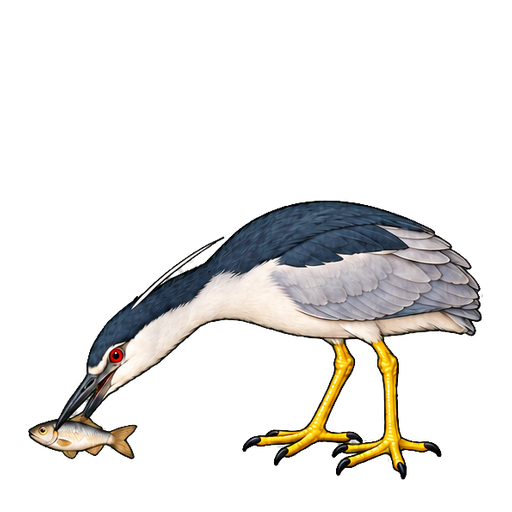
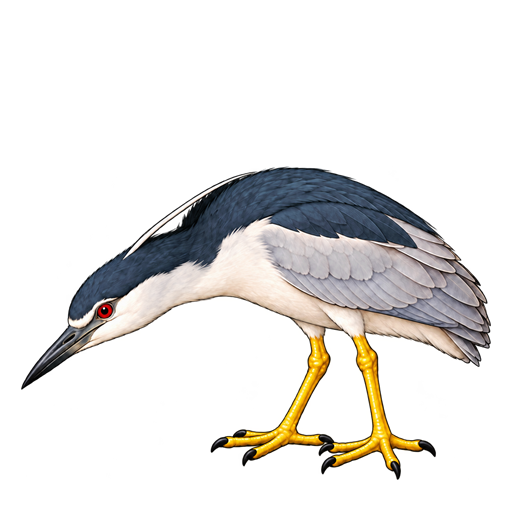
feat: extend eat animation to nine timed frames

Changed region(s): [[0.0312, 0.3125, 0.9688, 0.9375]]

diff --git a/tests/assets.test.js b/tests/assets.test.js
@@ -50,7 +50,7 @@ function loadedImageFactory(created) {
   };
 }
 
-test("loads and plays the six official eat frames once at 8 FPS", () => {
+test("loads and plays nine official eat frames once with independent timings", () => {
   const created = [];
   const fallback = { draw: () => ({ x: 0, y: 0 }) };
   const renderer = new global.YeluRenderers.HeronEatSequenceRenderer(
@@ -65,20 +65,26 @@ test("loads and plays the six official eat frames once at 8 FPS", () => {
     [{ state: "FISH_SWIM", progress: 0.5, swallowVariant: flutter }, 0],
     [{ state: "TRACK", progress: 0.5, swallowVariant: flutter }, 0],
     [{ state: "STRIKE", progress: 0, swallowVariant: flutter }, 0],
-    [{ state: "STRIKE", progress: 125 / 180, swallowVariant: flutter }, 1],
-    [{ state: "PRE_SWALLOW", progress: 70 / 280, swallowVariant: flutter }, 2],
-    [{ state: "PRE_SWALLOW", progress: 195 / 280, swallowVariant: flutter }, 3],
-    [{ state: "SWALLOW", progress: 40 / 380, swallowVariant: flutter }, 4],
-    [{ state: "SWALLOW", progress: 165 / 380, swallowVariant: flutter }, 5],
-    [{ state: "ROUNDNESS", progress: 1, swallowVariant: flutter }, 5]
+    [{ state: "STRIKE", progress: 199 / 800, swallowVariant: flutter }, 0],
+    [{ state: "STRIKE", progress: 200 / 800, swallowVariant: flutter }, 1],
+    [{ state: "STRIKE", progress: 450 / 800, swallowVariant: flutter }, 2],
+    [{ state: "STRIKE", progress: 600 / 800, swallowVariant: flutter }, 3],
+    [{ state: "STRIKE", progress: 680 / 800, swallowVariant: flutter }, 4],
+    [{ state: "PRE_SWALLOW", progress: 0, swallowVariant: flutter }, 5],
+    [{ state: "SWALLOW", progress: 0, swallowVariant: flutter }, 6],
+    [{ state: "SWALLOW", progress: 250 / 600, swallowVariant: flutter }, 7],
+    [{ state: "ROUNDNESS", progress: 0, swallowVariant: flutter }, 8],
+    [{ state: "ROUNDNESS", progress: 1, swallowVariant: flutter }, 8]
   ];
 
   assert.equal(renderer.isReady(), true);
+  assert.deepEqual(global.YeluConfig.assets.heronEat.frameDurations,
+    [200, 250, 150, 80, 120, 300, 250, 350, 250]);
   assert.deepEqual(created.map((image) => image.source), global.YeluConfig.assets.heronEat.frames);
   for (const [model, expected] of cases) assert.equal(renderer.frameIndex(model), expected);
 });
 
-test("draws every official frame into one foot-anchored destination rectangle", () => {
+test("draws all nine official frames into one foot-anchored destination rectangle", () => {
   const created = [];
   const renderer = new global.YeluRenderers.HeronEatSequenceRenderer(
     global.YeluConfig,
@@ -87,18 +93,20 @@ test("draws every official frame into one foot-anchored destination rectangle", 
   );
   const calls = [];
   const ctx = { drawImage: (...args) => calls.push(args) };
-  const models = [0, 1, 2, 3, 4, 5].map((index) => ({
-    state: "STRIKE",
-    progress: Math.min(index * 125 / global.YeluConfig.durations.STRIKE, 1),
-    swallowVariant: "flutter"
-  }));
-  models[2] = { state: "PRE_SWALLOW", progress: 70 / 280, swallowVariant: "flutter" };
-  models[3] = { state: "PRE_SWALLOW", progress: 195 / 280, swallowVariant: "flutter" };
-  models[4] = { state: "SWALLOW", progress: 40 / 380, swallowVariant: "flutter" };
-  models[5] = { state: "SWALLOW", progress: 165 / 380, swallowVariant: "flutter" };
+  const models = [
+    { state: "STRIKE", progress: 0 / 800, swallowVariant: "flutter" },
+    { state: "STRIKE", progress: 200 / 800, swallowVariant: "flutter" },
+    { state: "STRIKE", progress: 450 / 800, swallowVariant: "flutter" },
+    { state: "STRIKE", progress: 600 / 800, swallowVariant: "flutter" },
+    { state: "STRIKE", progress: 680 / 800, swallowVariant: "flutter" },
+    { state: "PRE_SWALLOW", progress: 0, swallowVariant: "flutter" },
+    { state: "SWALLOW", progress: 0, swallowVariant: "flutter" },
+    { state: "SWALLOW", progress: 250 / 600, swallowVariant: "flutter" },
+    { state: "ROUNDNESS", progress: 0, swallowVariant: "flutter" }
+  ];
   models.forEach((model) => renderer.draw(ctx, model));
 
-  assert.deepEqual(calls.map((args) => args.slice(1)), Array(6).fill(calls[0].slice(1)));
+  assert.deepEqual(calls.map((args) => args.slice(1)), Array(9).fill(calls[0].slice(1)));
   assert.deepEqual(calls.map((args) => args[0]), created);
 });
 
@@ -123,3 +131,4 @@ test("falls back to the Canvas bird when any official frame fails", () => {
   assert.equal(fallbackCalls, 1);
   assert.deepEqual(result, { x: 12, y: 34 });
 });
+

diff --git a/tests/browser-smoke.js b/tests/browser-smoke.js
@@ -14,6 +14,7 @@ const contentTypes = { ".html": "text/html", ".css": "text/css", ".js": "text/ja
 function startServer() {
   const server = http.createServer((request, response) => {
     const pathname = new URL(request.url, "http://127.0.0.1").pathname;
+    if (pathname === "/favicon.ico") { response.writeHead(204).end(); return; }
     const relative = pathname === "/" ? "index.html" : pathname.slice(1);
     const file = path.resolve(root, relative);
     if (!file.startsWith(root + path.sep)) { response.writeHead(403).end(); return; }
@@ -48,7 +49,10 @@ let browser;
   server = await startServer();
   const address = server.address();
   const baseUrl = `http://127.0.0.1:${address.port}`;
-  browser = await chromium.launch({ headless: true });
+  browser = await chromium.launch({
+    headless: true,
+    executablePath: process.env.PLAYWRIGHT_CHROMIUM_EXECUTABLE_PATH || undefined
+  });
   const context = await browser.newContext({ viewport: { width: 390, height: 844 }, deviceScaleFactor: 1 });
   const page = await context.newPage();
   const errors = collectErrors(page);
@@ -71,7 +75,7 @@ let browser;
   assert.equal(initial.hintVisible, true);
   assert.equal(initial.assetPack, "official-v1-heron-eat");
   assert.equal(initial.placeholder, false);
-  assert.deepEqual(initial.eatFrames, Array(6).fill([true, 512]));
+  assert.deepEqual(initial.eatFrames, Array(9).fill([true, 512]));
   await page.screenshot({ path: path.join(artifacts, "idle.png") });
 
   await page.click("#feed-button");
@@ -99,7 +103,7 @@ let browser;
     const model = app.machine.snapshot(performance.now());
     return { state: model.state, frame: app.assetPack.bird.frameIndex(model) };
   });
-  assert.ok(eating.frame >= 3 && eating.frame <= 5);
+  assert.ok(eating.frame >= 3 && eating.frame <= 8);
   await page.screenshot({ path: path.join(artifacts, "eat-sequence.png") });
 
   await page.waitForFunction(() => window.__YELU_M0__.machine.state === "POOP");
@@ -174,3 +178,4 @@ let browser;
   if (browser) await browser.close().catch(() => {});
   if (server) await new Promise((resolve) => server.close(resolve));
 });
+

diff --git a/js/config.js b/js/config.js
@@ -12,20 +12,23 @@
       activePack: "official-v1-heron-eat",
       interfaceVersion: 1,
       heronEat: {
-        fps: 8,
         frameWidth: 512,
         frameHeight: 512,
         displaySize: 280,
         x: 72,
         footBaselineY: 430,
         sourceFootBaseline: 480,
+        frameDurations: [200, 250, 150, 80, 120, 300, 250, 350, 250],
         frames: [
           "assets/official-v1/heron/eat/heron-eat-000.png",
           "assets/official-v1/heron/eat/heron-eat-001.png",
           "assets/official-v1/heron/eat/heron-eat-002.png",
           "assets/official-v1/heron/eat/heron-eat-003.png",
           "assets/official-v1/heron/eat/heron-eat-004.png",
-          "assets/official-v1/heron/eat/heron-eat-005.png"
+          "assets/official-v1/heron/eat/heron-eat-005.png",
+          "assets/official-v1/heron/eat/heron-eat-006.png",
+          "assets/official-v1/heron/eat/heron-eat-007.png",
+          "assets/official-v1/heron/eat/heron-eat-008.png"
         ]
       }
     },
@@ -40,11 +43,11 @@
       THROW: 420,
       FISH_SWIM: 340,
       TRACK: 220,
-      STRIKE: 180,
-      PRE_SWALLOW_DIRECT: 70,
-      PRE_SWALLOW_FLUTTER: 280,
-      SWALLOW: 380,
-      ROUNDNESS: 230,
+      STRIKE: 800,
+      PRE_SWALLOW_DIRECT: 300,
+      PRE_SWALLOW_FLUTTER: 300,
+      SWALLOW: 600,
+      ROUNDNESS: 250,
       POOP_PREP: 440,
       POOP: 580,
       RIPPLE: 620,
@@ -73,3 +76,4 @@
   root.YeluConfig = Object.freeze(config);
   if (typeof module !== "undefined" && module.exports) module.exports = config;
 })(typeof globalThis !== "undefined" ? globalThis : window);
+

diff --git a/js/renderers.js b/js/renderers.js
@@ -344,8 +344,12 @@
       if ([STATES.IDLE, STATES.THROW, STATES.FISH_SWIM, STATES.TRACK].includes(model.state)) return 0;
       const elapsed = this.elapsed(model);
       if (elapsed == null) return null;
-      const frameDuration = 1000 / this.sequence.fps;
-      return Math.min(this.sequence.frames.length - 1, Math.floor(elapsed / frameDuration));
+      let boundary = 0;
+      for (let index = 0; index < this.sequence.frameDurations.length; index += 1) {
+        boundary += this.sequence.frameDurations[index];
+        if (elapsed < boundary) return index;
+      }
+      return this.sequence.frames.length - 1;
     }
 
     draw(ctx, model) {
@@ -374,12 +378,15 @@
 
       // Source frames share a 512px canvas and a y=480 foot baseline. Keeping one
       // destination rectangle preserves that authored alignment across all poses.
-      const beaks = [[70, 194], [68, 383], [48, 420], [90, 181], [105, 82], [65, 193]];
+      const beaks = [
+        [70, 194], [68, 383], [36, 354], [48, 420], [72, 400],
+        [90, 181], [105, 82], [102, 32], [65, 193]
+      ];
       const beak = beaks[index];
       return {
         x: this.sequence.x + beak[0] * scale,
         y: y + beak[1] * scale,
-        suppressFish: index >= 2
+        suppressFish: index >= 3
       };
     }
   }
@@ -442,3 +449,4 @@
     HeronEatSequenceRenderer
   };
 })(typeof globalThis !== "undefined" ? globalThis : window);
+

diff --git a/tests/state-machine.test.js b/tests/state-machine.test.js
@@ -32,7 +32,7 @@ test("runs the complete M0 sequence and unlocks afterwards", () => {
   const { machine, seen, now } = runCycle([0.45, 0.2]);
   assert.deepEqual(seen, ORDER);
   assert.equal(machine.locked, false);
-  assert.ok(now >= 3000 && now <= 5000);
+  assert.ok(now >= 5000 && now <= 5500);
   assert.equal(machine.feed(now), true);
 });
 
@@ -64,7 +64,16 @@ test("supports direct and flutter swallow variants", () => {
   direct.feed(0); flutter.feed(0);
   assert.equal(direct.swallowVariant, "direct");
   assert.equal(flutter.swallowVariant, "flutter");
-  assert.ok(direct.durationFor(STATES.PRE_SWALLOW) < flutter.durationFor(STATES.PRE_SWALLOW));
+  assert.equal(direct.durationFor(STATES.PRE_SWALLOW), 300);
+  assert.equal(flutter.durationFor(STATES.PRE_SWALLOW), 300);
+});
+
+test("reserves exactly the independent frame timeline before poop preparation", () => {
+  const machine = new YeluStateMachine(config, () => 0.2);
+  machine.feed(0);
+  const eatingDuration = [STATES.STRIKE, STATES.PRE_SWALLOW, STATES.SWALLOW, STATES.ROUNDNESS]
+    .reduce((total, state) => total + machine.durationFor(state), 0);
+  assert.equal(eatingDuration, 1950);
 });
 
 test("uses deterministic boundary values for targets and variants", () => {
@@ -123,3 +132,4 @@ test("eight consecutive feeds each preserve exactly one poop settlement", () => 
   assert.equal(machine.cycle, 8);
   assert.equal(poopEntries, 8);
 });
+

diff --git a/README.md b/README.md
@@ -50,5 +50,6 @@ Issue #1 的 M0 核心动画 Demo 已实现。动画由 `requestAnimationFrame` 
 
 ## 已知限制
 
-- 当前仅接入夜师傅六帧正式吃鱼 PNG；背景、鱼篓、天屎和环境特效仍使用 `m0-canvas-placeholder` Canvas 水彩占位实现。PNG 加载失败时夜师傅也会自动降级为 Canvas 绘制，不影响投喂与天屎状态机。`SceneRenderer` 继续通过 asset pack 接口消费各层，无需把素材逻辑写入状态机。
+- 当前仅接入夜师傅九帧正式吃鱼 PNG，并按 `200/250/150/80/120/300/250/350/250ms` 逐帧单次播放；背景、鱼篓、天屎和环境特效仍使用 `m0-canvas-placeholder` Canvas 水彩占位实现。PNG 加载失败时夜师傅也会自动降级为 Canvas 绘制，不影响投喂与天屎状态机。`SceneRenderer` 继续通过 asset pack 接口消费各层，无需把素材逻辑写入状态机。
 - M0 以现代 Chrome/Edge 和约 `390 × 844` 竖屏为主要目标，未针对旧版浏览器做兼容处理。
+

diff --git a/assets/official-v1/README.md b/assets/official-v1/README.md
@@ -6,4 +6,5 @@
 
 提交素材前，请确认 PNG 透明、目录、帧号、锚点和状态映射均符合该规范。
 
-当前已接入 `heron/eat/heron-eat-000.png` 至 `heron-eat-005.png` 六帧吃鱼序列。渲染层以 8 FPS 单次播放，并以源图统一的 `y=480` 脚部基线定位；素材尚未全部加载或任一帧加载失败时，自动退回 `m0-canvas-placeholder` Canvas 夜师傅，不中断游戏状态机。
+当前已接入 `heron/eat/heron-eat-000.png` 至 `heron-eat-008.png` 九帧吃鱼序列。渲染层按配置的逐帧时长单次播放，并以源图统一的 `y=480` 脚部基线定位；素材尚未全部加载或任一帧加载失败时，自动退回 `m0-canvas-placeholder` Canvas 夜师傅，不中断游戏状态机。
+
